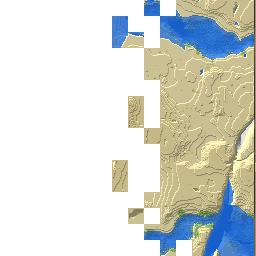
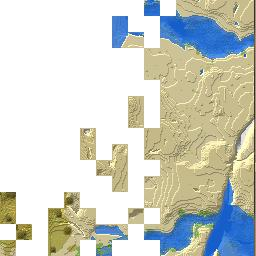
map update

diff --git a/unmined/unmined.map.regions.js b/unmined/unmined.map.regions.js
@@ -1,6 +1,6 @@
 var UnminedRegions = [
-{ x: 0, z: -1, m: new Uint32Array([0,0,0,0,0,0,0,0,0,0,0,1,3,3,3,1,1,3,7,1,1,1,1,1,1,1,1,1,3,3,1,7,0,0,0,0,0,0,0,0,0,0,0,0,0,0,0,0,0,0,0,0,0,0,0,0,0,0,0,0,0,0,0,0,0,0,0,0,0,0,0,0,0,0,0,0,0,0,0,0,0,0,0,0,0,0,0,0,0,0,0,0,0,0,0,0,0,0,0,0,0,0,0,0,0,0,0,0,0,0,0,0,0,0,0,0,0,0,0,0,0,0,0,0,0,0,0,0,0,0,0,0,0,0,0,0,0,0,0,0,0,0,0,0,0,0,0,0,0,0,0,0,0,0,0,0,0,0,0,0,0,0,0,0,0,0,0,0,0,0,0,0,0,0,0,0,0,0,0,0,0,0,0,0,0,0,0,0,0,0,0,0,0,0,0,0,0,0,0,0,0,0,0,0,0,0,0,0,0,0,0,0,0,0,0,0,0,0,0,0,0,0,0,0,0,0,0,0,0,0,0,0,0,0,0,0,0,0,0,0,0,0,0,0,0,0,0,0,0,0,0,0,0,0,0,0]) },
 { x: 0, z: 0, m: new Uint32Array([524295,1,0,0,0,0,0,0,0,0,0,0,0,0,0,0,0,786432,786432,524288,0,0,0,0,0,0,0,0,0,0,0,0,0,0,0,0,0,0,0,0,0,0,0,0,0,0,0,0,0,0,0,0,0,0,0,0,0,0,0,0,0,0,0,0,0,0,0,0,0,0,0,0,0,0,0,0,0,0,0,0,0,0,0,0,0,0,0,0,0,0,0,0,0,0,0,0,0,0,0,0,0,0,0,0,0,0,0,0,0,0,0,0,0,0,0,0,0,0,0,0,0,0,0,0,0,0,0,0,0,0,0,0,0,0,0,0,0,0,0,0,0,0,0,0,0,0,0,0,0,0,0,0,0,0,0,0,0,0,0,0,0,0,0,0,0,0,0,0,0,0,0,0,0,0,0,0,0,0,0,0,0,0,0,0,0,0,0,0,0,0,0,0,0,0,0,0,0,0,0,0,0,0,0,0,0,0,0,0,0,0,0,0,0,0,0,0,0,0,0,0,0,0,0,0,0,0,0,0,0,0,0,0,0,0,0,0,0,0,0,0,0,0,0,0,0,0,0,0,0,0,0,0,0,0,0,0]) },
-{ x: -1, z: -1, m: new Uint32Array([0,0,0,0,0,0,0,0,0,0,2147483648,3221225472,2147483648,2147483648,2147483648,2147483648,2147483648,2147483648,2147483648,2147483648,2147483648,2147483648,2147483648,2147483648,2147483648,2147483648,2147483648,2147483648,2147483648,2147483648,2147508224,3221352448,0,0,0,0,0,0,0,0,0,0,0,0,0,0,0,0,0,0,0,0,0,0,0,0,0,0,0,0,0,0,0,0,0,0,0,0,0,0,0,0,0,0,0,0,0,0,0,0,0,0,0,0,0,0,0,0,0,0,0,0,0,0,0,0,0,0,0,0,0,0,0,0,0,0,0,0,0,0,0,0,0,0,0,0,0,0,0,0,0,0,0,0,0,0,0,0,0,0,0,0,0,0,0,0,0,0,0,0,0,0,0,0,0,0,0,0,0,0,0,0,0,0,0,0,0,0,0,0,0,0,0,0,0,0,0,0,0,0,0,0,0,0,0,0,0,0,0,0,0,0,0,0,0,0,0,0,0,0,0,0,0,0,0,0,0,0,0,0,0,0,0,0,0,0,0,0,0,0,0,0,0,0,0,0,0,0,0,0,0,0,0,0,0,0,0,0,0,0,0,0,0,0,0,0,0,0,0,0,0,0,0,0,0,0,0,0,0,0,0,0,0,0,0,0]) },
+{ x: -1, z: -1, m: new Uint32Array([0,0,0,0,0,0,0,0,0,0,2147483648,3221225472,2147483648,2147483648,2147483648,2147483648,2147483648,3758096384,3758096384,2147483648,2147483648,2147483648,2147483648,2147483648,2147483648,2147483648,2147483648,2147483648,2147483648,2147483648,2147508224,3221352448,0,0,0,0,0,0,0,0,0,0,0,0,0,0,0,0,0,0,0,0,0,0,0,0,0,0,0,0,0,0,0,0,0,0,0,0,0,0,0,0,0,0,0,0,0,0,0,0,0,0,0,0,0,0,0,0,0,0,0,0,0,0,0,0,0,0,0,0,0,0,0,0,0,0,0,0,0,0,0,0,0,0,0,0,0,0,0,0,0,0,0,0,0,0,0,0,0,0,0,0,0,0,0,0,0,0,0,0,0,0,0,0,0,0,0,0,0,0,0,0,0,0,0,0,0,0,0,0,0,0,0,0,0,0,0,0,0,0,0,0,0,0,0,0,0,0,0,0,0,0,0,0,0,0,0,0,0,0,0,0,0,0,0,0,0,0,0,0,0,0,0,0,0,0,0,0,0,0,0,0,0,0,0,0,0,0,0,0,0,0,0,0,0,0,0,0,0,0,0,0,0,0,0,0,0,0,0,0,0,0,0,0,0,0,0,0,0,0,0,0,0,0,0,0]) },
+{ x: 0, z: -1, m: new Uint32Array([0,0,0,0,0,0,0,0,0,0,0,1,3,3,3,1,1,3,7,1,1,1,1,1,1,1,1,1,3,3,1,7,0,0,0,0,0,0,0,0,0,0,0,0,0,0,0,0,0,0,0,0,0,0,0,0,0,0,0,0,0,0,0,0,0,0,0,0,0,0,0,0,0,0,0,0,0,0,0,0,0,0,0,0,0,0,0,0,0,0,0,0,0,0,0,0,0,0,0,0,0,0,0,0,0,0,0,0,0,0,0,0,0,0,0,0,0,0,0,0,0,0,0,0,0,0,0,0,0,0,0,0,0,0,0,0,0,0,0,0,0,0,0,0,0,0,0,0,0,0,0,0,0,0,0,0,0,0,0,0,0,0,0,0,0,0,0,0,0,0,0,0,0,0,0,0,0,0,0,0,0,0,0,0,0,0,0,0,0,0,0,0,0,0,0,0,0,0,0,0,0,0,0,0,0,0,0,0,0,0,0,0,0,0,0,0,0,0,0,0,0,0,0,0,0,0,0,0,0,0,0,0,0,0,0,0,0,0,0,0,0,0,0,0,0,0,0,0,0,0,0,0,0,0,0,0]) },
 { x: -1, z: 0, m: new Uint32Array([3221352448,2147532800,0,0,0,0,0,0,0,0,0,0,0,0,0,0,0,0,0,0,0,0,0,0,0,0,0,0,0,0,0,0,0,0,0,0,0,0,0,0,0,0,0,0,0,0,0,0,0,0,0,0,0,0,0,0,0,0,0,0,0,0,0,0,0,0,0,0,0,0,0,0,0,0,0,0,0,0,0,0,0,0,0,0,0,0,0,0,0,0,0,0,0,0,0,0,0,0,0,0,0,0,0,0,0,0,0,0,0,0,0,0,0,0,0,0,0,0,0,0,0,0,0,0,0,0,0,0,0,0,0,0,0,0,0,0,0,0,0,0,0,0,0,0,0,0,0,0,0,0,0,0,0,0,0,0,0,0,0,0,0,0,0,0,0,0,0,0,0,0,0,0,0,0,0,0,0,0,0,0,0,0,0,0,0,0,0,0,0,0,0,0,0,0,0,0,0,0,0,0,0,0,0,0,0,0,0,0,0,0,0,0,0,0,0,0,0,0,0,0,0,0,0,0,0,0,0,0,0,0,0,0,0,0,0,0,0,0,0,0,0,0,0,0,0,0,0,0,0,0,0,0,0,0,0,0]) },
 ];
